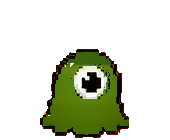
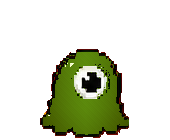
Fix slime sprite banding and sleep pose

Changed region(s): [[0.3824, 0.3714, 0.6471, 0.4857]]

diff --git a/g00dweird_chat-main/frontend/src/components/AnimSpriteAssets.test.js b/g00dweird_chat-main/frontend/src/components/AnimSpriteAssets.test.js
@@ -153,6 +153,10 @@ function brightness([r, g, b]) {
     return (r + g + b) / 3;
 }
 
+function colorDistance(a, b) {
+    return (Math.abs(a[0] - b[0]) + Math.abs(a[1] - b[1]) + Math.abs(a[2] - b[2])) / 3;
+}
+
 function verticalSlimeBodyBands(decoded) {
     const bounds = opaqueBounds(decoded);
     if (!bounds) return [];
@@ -175,6 +179,49 @@ function verticalSlimeBodyBands(decoded) {
     }
 
     return bands;
+}
+
+function directionalBodyDiffRatio(decoded) {
+    const bounds = opaqueBounds(decoded);
+    if (!bounds) return 0;
+    const horizontalDiffs = [];
+    const verticalDiffs = [];
+
+    for (let y = bounds.top; y <= bounds.bottom; y += 1) {
+        for (let x = bounds.left; x <= bounds.right; x += 1) {
+            const pixel = decoded.rgba[y][x];
+            if (!isSlimeBodyPixel(pixel)) continue;
+
+            if (x + 1 <= bounds.right && isSlimeBodyPixel(decoded.rgba[y][x + 1])) {
+                horizontalDiffs.push(colorDistance(pixel, decoded.rgba[y][x + 1]));
+            }
+            if (y + 1 <= bounds.bottom && isSlimeBodyPixel(decoded.rgba[y + 1][x])) {
+                verticalDiffs.push(colorDistance(pixel, decoded.rgba[y + 1][x]));
+            }
+        }
+    }
+
+    const horizontal = horizontalDiffs.reduce((sum, value) => sum + value, 0) / horizontalDiffs.length;
+    const vertical = verticalDiffs.reduce((sum, value) => sum + value, 0) / verticalDiffs.length;
+    return vertical / horizontal;
+}
+
+function outlineAlphaChips({ width, height, alpha }, minNeighbors = 7) {
+    const chips = [];
+    for (let y = 1; y < height - 1; y += 1) {
+        for (let x = 1; x < width - 1; x += 1) {
+            if (alpha[y][x] !== 0) continue;
+            let opaqueNeighbors = 0;
+            for (let dy = -1; dy <= 1; dy += 1) {
+                for (let dx = -1; dx <= 1; dx += 1) {
+                    if (dx === 0 && dy === 0) continue;
+                    if (alpha[y + dy][x + dx] > 0) opaqueNeighbors += 1;
+                }
+            }
+            if (opaqueNeighbors >= minNeighbors) chips.push({ x, y, opaqueNeighbors });
+        }
+    }
+    return chips;
 }
 
 describe("animated sprite asset alpha", () => {
@@ -235,5 +282,34 @@ describe("animated sprite asset alpha", () => {
             .filter(Boolean);
 
         expect(stripedFrames).toEqual([]);
+    });
+
+    test("slime body texture is not dominated by horizontal bands", () => {
+        const rowBandedFrames = fs.readdirSync(SLIME_DIR)
+            .filter((name) => name.endsWith(".png"))
+            .map((name) => {
+                const ratio = directionalBodyDiffRatio(decodePngAlpha(path.join(SLIME_DIR, name)));
+                return ratio > 1.55 ? { name, ratio: Number(ratio.toFixed(2)) } : null;
+            })
+            .filter(Boolean);
+
+        expect(rowBandedFrames).toEqual([]);
+    });
+
+    test("slime outlines have no surrounded transparent cutout chips", () => {
+        const chippedFrames = fs.readdirSync(SLIME_DIR)
+            .filter((name) => name.endsWith(".png"))
+            .map((name) => {
+                const chips = outlineAlphaChips(decodePngAlpha(path.join(SLIME_DIR, name)));
+                return chips.length ? { name, chips } : null;
+            })
+            .filter(Boolean);
+
+        expect(chippedFrames).toEqual([]);
+    });
+
+    test("slime sleep pose keeps a visible slime body", () => {
+        const sleepFrame = decodePngAlpha(path.join(SLIME_DIR, "emote_d_0.png"));
+        expect(opaquePixelCount(sleepFrame)).toBeGreaterThanOrEqual(5600);
     });
 });

diff --git a/g00dweird_chat-main/frontend/src/components/AnimSprite.jsx b/g00dweird_chat-main/frontend/src/components/AnimSprite.jsx
@@ -18,7 +18,7 @@ import React, { useEffect, useRef } from "react";
  * STATE_ALIASES maps requested-but-missing states onto sensible existing frames.
  */
 
-export const ANIM_VERSION = 27;
+export const ANIM_VERSION = 28;
 
 // Frame counts per creature/state — mirrors slicer v3 / unified output.
 export const FRAMES = {

diff --git a/g00dweird_chat-main/scripts/smooth_slime_body_texture.py b/g00dweird_chat-main/scripts/smooth_slime_body_texture.py
@@ -1,7 +1,8 @@
 #!/usr/bin/env python3
-"""Remove hard vertical column bands from slime sprite body pixels."""
+"""Repaint slime body pixels without banding and close tiny alpha chips."""
 from __future__ import annotations
 
+from collections import deque
 from pathlib import Path
 from statistics import median
 
@@ -32,40 +33,162 @@ def is_near_transparency(alpha, x: int, y: int, radius: int = 2) -> bool:
     return False
 
 
+def is_sleep_symbol_color(color: tuple[int, int, int, int]) -> bool:
+    r, g, b, a = color
+    if a == 0:
+        return False
+    return b > 105 and g > 95 and r < 120
+
+
 def body_bounds(body_points: set[tuple[int, int]]) -> tuple[int, int, int, int]:
     xs = [point[0] for point in body_points]
     ys = [point[1] for point in body_points]
     return min(xs), min(ys), max(xs), max(ys)
 
 
-def body_row_medians(image: Image.Image, body_points: set[tuple[int, int]]) -> dict[int, tuple[float, float, float]]:
+def dominant_body_color(image: Image.Image, body_points: set[tuple[int, int]]) -> tuple[float, float, float]:
     pixels = image.load()
-    rows: dict[int, list[tuple[int, int, int]]] = {}
-    for x, y in body_points:
-        r, g, b, _a = pixels[x, y]
-        rows.setdefault(y, []).append((r, g, b))
-
-    medians = {}
-    for y, colors in rows.items():
-        if len(colors) < 4:
-            continue
-        medians[y] = tuple(median(channel) for channel in zip(*colors))
-    return medians
-
-
-def smooth_row_target(
-    medians: dict[int, tuple[float, float, float]],
-    y: int,
-    radius: int = 4,
-) -> tuple[float, float, float] | None:
-    neighbors = [medians[ny] for ny in range(y - radius, y + radius + 1) if ny in medians]
-    if len(neighbors) < 2:
-        return None
-    return tuple(median(channel) for channel in zip(*neighbors))
+    colors = [pixels[x, y][:3] for x, y in body_points]
+    if not colors:
+        return (85, 142, 22)
+    return tuple(median(channel) for channel in zip(*colors))
 
 
 def clamp_channel(value: float) -> int:
     return max(0, min(255, round(value)))
+
+
+def target_body_color(
+    base: tuple[float, float, float],
+    x: int,
+    y: int,
+    bounds: tuple[int, int, int, int],
+) -> tuple[int, int, int]:
+    left, top, right, bottom = bounds
+    center_x = (left + right) / 2
+    half_width = max(1, (right - left) / 2)
+    body_height = max(1, bottom - top)
+    nx = (x - center_x) / half_width
+    y_norm = (y - top) / body_height
+
+    side_shadow = -24 * (abs(nx) ** 1.65)
+    center_lift = 13 * max(0, 1 - abs(nx)) ** 1.2
+    crown_lift = 9 * max(0, 1 - y_norm)
+    belly_lift = 6 * max(0, 1 - ((nx * 1.3) ** 2 + ((y_norm - 0.52) * 2.0) ** 2))
+    lower_shadow = -10 * max(0, y_norm - 0.68) / 0.32
+    texture = (((x * 17 + y * 11) % 7) - 3) * 0.75
+    shade = side_shadow + center_lift + crown_lift + belly_lift + lower_shadow + texture
+
+    return (
+        clamp_channel(base[0] + shade * 0.48),
+        clamp_channel(base[1] + shade),
+        clamp_channel(base[2] + shade * 0.28),
+    )
+
+
+def nearest_opaque_color(image: Image.Image, x: int, y: int) -> tuple[int, int, int, int]:
+    pixels = image.load()
+    width, height = image.size
+    candidates = []
+    for radius in range(1, 5):
+        for ny in range(max(0, y - radius), min(height, y + radius + 1)):
+            for nx in range(max(0, x - radius), min(width, x + radius + 1)):
+                color = pixels[nx, ny]
+                if color[3] == 0:
+                    continue
+                distance = (nx - x) * (nx - x) + (ny - y) * (ny - y)
+                candidates.append((distance, color))
+        if candidates:
+            candidates.sort(key=lambda item: item[0])
+            return candidates[0][1]
+    return (52, 88, 13, 255)
+
+
+def close_alpha_chips(image: Image.Image, min_neighbors: int = 7) -> int:
+    pixels = image.load()
+    width, height = image.size
+    total = 0
+
+    for _pass in range(3):
+        chips = []
+        for y in range(1, height - 1):
+            for x in range(1, width - 1):
+                if pixels[x, y][3] != 0:
+                    continue
+                opaque_neighbors = 0
+                for dy in (-1, 0, 1):
+                    for dx in (-1, 0, 1):
+                        if dx == 0 and dy == 0:
+                            continue
+                        if pixels[x + dx, y + dy][3] > 0:
+                            opaque_neighbors += 1
+                if opaque_neighbors >= min_neighbors:
+                    chips.append((x, y))
+
+        if not chips:
+            break
+        for x, y in chips:
+            pixels[x, y] = nearest_opaque_color(image, x, y)
+        total += len(chips)
+
+    return total
+
+
+def sleep_symbol_components(image: Image.Image) -> list[list[tuple[int, int]]]:
+    pixels = image.load()
+    width, height = image.size
+    seen = set()
+    components = []
+
+    for y in range(height):
+        for x in range(width):
+            if (x, y) in seen or pixels[x, y][3] == 0:
+                continue
+            queue = deque([(x, y)])
+            seen.add((x, y))
+            points = []
+            has_symbol = False
+
+            while queue:
+                px, py = queue.popleft()
+                points.append((px, py))
+                if is_sleep_symbol_color(pixels[px, py]):
+                    has_symbol = True
+                for nx in (px - 1, px, px + 1):
+                    for ny in (py - 1, py, py + 1):
+                        if nx == px and ny == py:
+                            continue
+                        if nx < 0 or ny < 0 or nx >= width or ny >= height:
+                            continue
+                        if (nx, ny) in seen or pixels[nx, ny][3] == 0:
+                            continue
+                        seen.add((nx, ny))
+                        queue.append((nx, ny))
+
+            if has_symbol:
+                components.append(points)
+
+    return components
+
+
+def repair_sleep_pose() -> int:
+    sleep_path = SLIME_DIR / "emote_d_0.png"
+    donor_path = SLIME_DIR / "idle_1.png"
+    sleep = Image.open(sleep_path).convert("RGBA")
+    donor = Image.open(donor_path).convert("RGBA")
+    repaired = donor.copy()
+    sleep_pixels = sleep.load()
+    repaired_pixels = repaired.load()
+    changed = 0
+
+    for component in sleep_symbol_components(sleep):
+        for x, y in component:
+            repaired_pixels[x, y] = sleep_pixels[x, y]
+            changed += 1
+
+    if changed:
+        repaired.save(sleep_path, optimize=True)
+    return changed
 
 
 def smooth_frame(path: Path) -> int:
@@ -82,34 +205,21 @@ def smooth_frame(path: Path) -> int:
     if not body_points:
         return 0
 
-    left, top, right, bottom = body_bounds(body_points)
-    center_x = (left + right) / 2
-    half_width = max(1, (right - left) / 2)
-    body_height = max(1, bottom - top)
     changed = 0
-    row_medians = body_row_medians(image, body_points)
+    bounds = body_bounds(body_points)
+    base = dominant_body_color(image, body_points)
 
     for x, y in body_points:
-        target = smooth_row_target(row_medians, y)
-        if not target:
-            continue
-        r, g, b, a = pixels[x, y]
-        y_norm = (y - top) / body_height
-        edge_norm = min(1, abs(x - center_x) / half_width)
-        edge_shadow = -18 * (edge_norm ** 1.65)
-        top_light = 9 * (1 - y_norm)
-        bottom_weight = -7 * y_norm
-        light = edge_shadow + top_light + bottom_weight
-        target_r = target[0] + light * 0.55
-        target_g = target[1] + light
-        target_b = target[2] + light * 0.35
+        _r, _g, _b, a = pixels[x, y]
+        target_r, target_g, target_b = target_body_color(base, x, y, bounds)
         pixels[x, y] = (
-            clamp_channel((target_r * 0.98) + (r * 0.02)),
-            clamp_channel((target_g * 0.98) + (g * 0.02)),
-            clamp_channel((target_b * 0.98) + (b * 0.02)),
+            target_r,
+            target_g,
+            target_b,
             a,
         )
         changed += 1
+    changed += close_alpha_chips(image)
 
     if changed:
         image.save(path, optimize=True)
@@ -120,10 +230,19 @@ def smooth_frame(path: Path) -> int:
 def smooth_all() -> int:
     total = 0
     for path in sorted(SLIME_DIR.glob("*.png")):
+        if path.name == "emote_d_0.png":
+            continue
         fixed = smooth_frame(path)
         total += fixed
         if fixed:
             print(f"{path.name}: smoothed {fixed} body pixels")
+    sleep_symbols = repair_sleep_pose()
+    if sleep_symbols:
+        print(f"emote_d_0.png: rebuilt sleep pose with {sleep_symbols} symbol pixels")
+    sleep_fixed = smooth_frame(SLIME_DIR / "emote_d_0.png")
+    total += sleep_symbols + sleep_fixed
+    if sleep_fixed:
+        print(f"emote_d_0.png: smoothed {sleep_fixed} body pixels")
     print(f"smoothed {total} slime body pixels")
     return total
 
